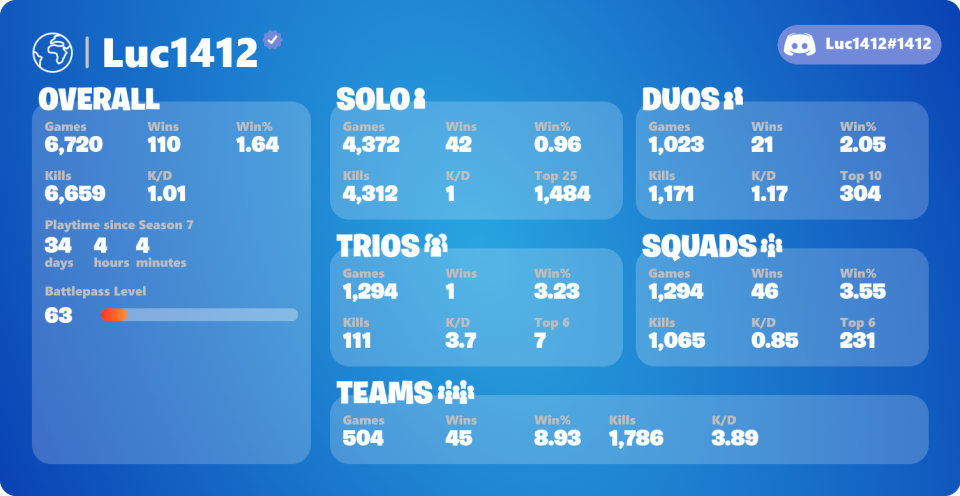
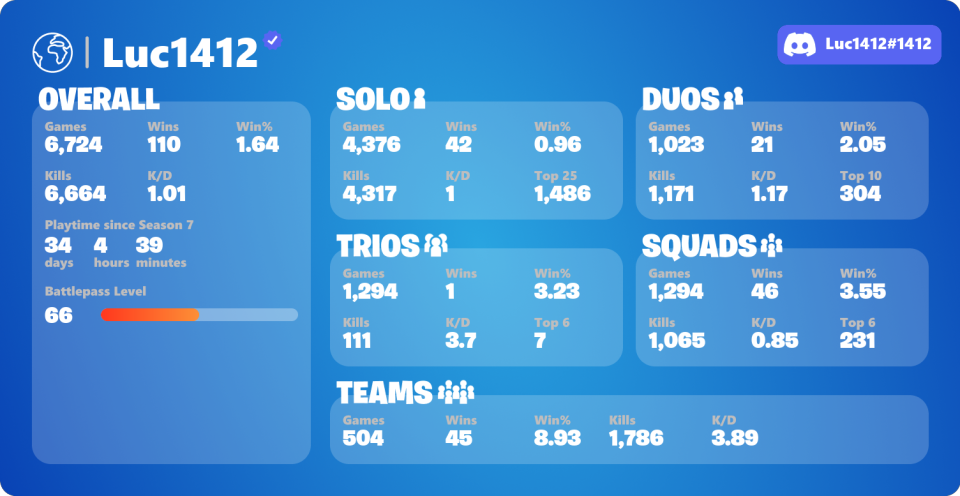
GitBook: [master] one page and 5 assets modified

diff --git a/changelog.md b/changelog.md
@@ -6,7 +6,7 @@
 
 * Competitive Stats: Get just your Arena and Tournament matches including Arena Hype, Division, Earnings, and FortniteTracker.com's Power Ranking \(`!fn comp`\)
 
-![](.gitbook/assets/stats-1-%20%281%29.png)
+![New Competitive Stats](.gitbook/assets/stats-comp.png)
 
 * Seasonal Stats: Only display the stats that you have earned in the current season. \(`!fn season`\)
 * Season Command: View info on the current season and progress \(`!fn seasoninfo`\)
@@ -19,7 +19,7 @@
 
 * Reformatted Stats Image
 
-![](.gitbook/assets/stats%20%282%29.png)
+![New Stats Image Design](.gitbook/assets/stats%20%281%29.png)
 
 * Moved FAQ to docs \(`!fn faq`\)
 
@@ -29,7 +29,8 @@
 * Fixed issue that bot lobbies still included
 * Fixed verification error message if an account is claimed
 * Fixed shop command which doesn't work in rare cases
-* Fixed issue that the shop image is sometimes missing 
+* Fixed issue that the shop image is sometimes missing
+* Fix that BattlePass level progress bar broken on too small progresses
 
 ## V3.0.0 - 2021-03-08
 
